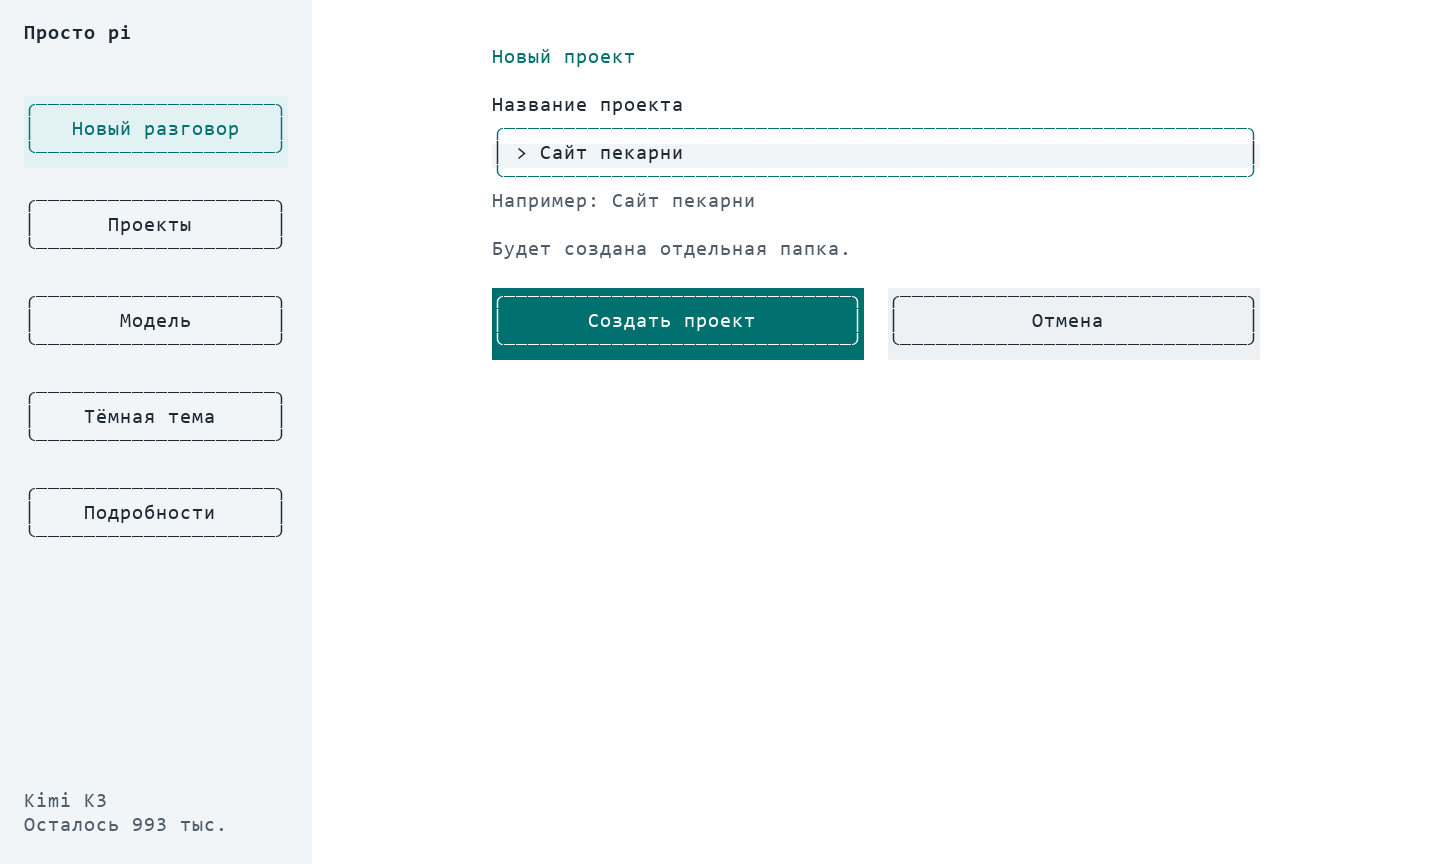
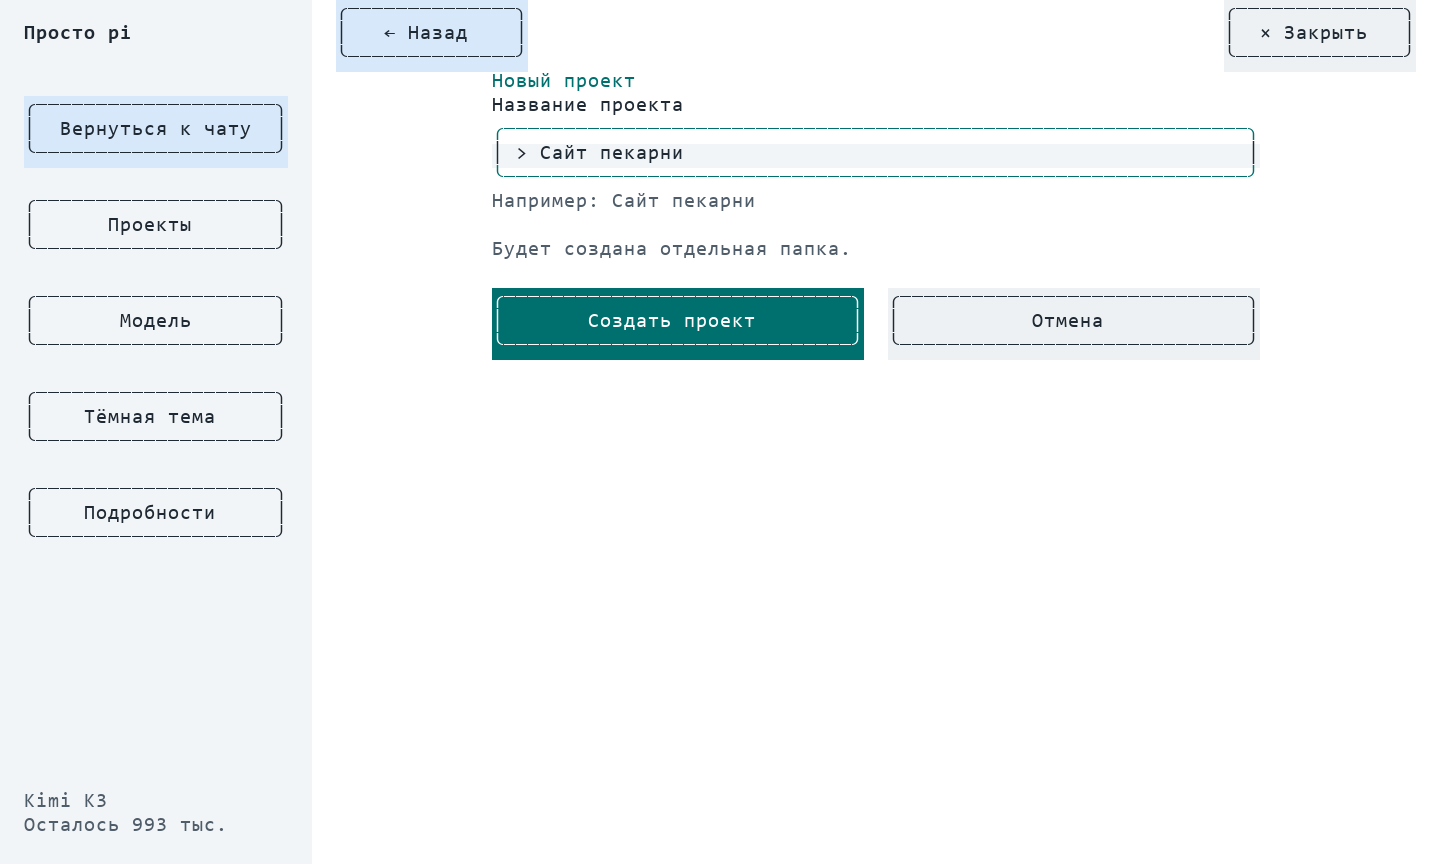
Add visible back navigation and blue return-to-chat button

Changed region(s): [[0.2188, 0.0, 0.4375, 0.125], [0.0312, 0.125, 0.1875, 0.1562], [0.875, 0.0312, 0.9375, 0.0625]]

diff --git a/README.md b/README.md
@@ -92,3 +92,5 @@ MIT.
 ![Название нового проекта](design/preview-form.png)
 
 Данные этих превью демонстрационные. Генерация: node design/preview.mjs /path/to/pi-package, затем python design/render_preview.py (Pillow, Windows fonts).
+
+В открытых окнах сверху слева есть «Назад», справа — «Закрыть». Кнопка «Новый разговор» в боковой панели меняется на синюю «Вернуться к чату». «Назад» в списке чатов возвращает к проектам; в форме проекта — к предыдущему окну.
